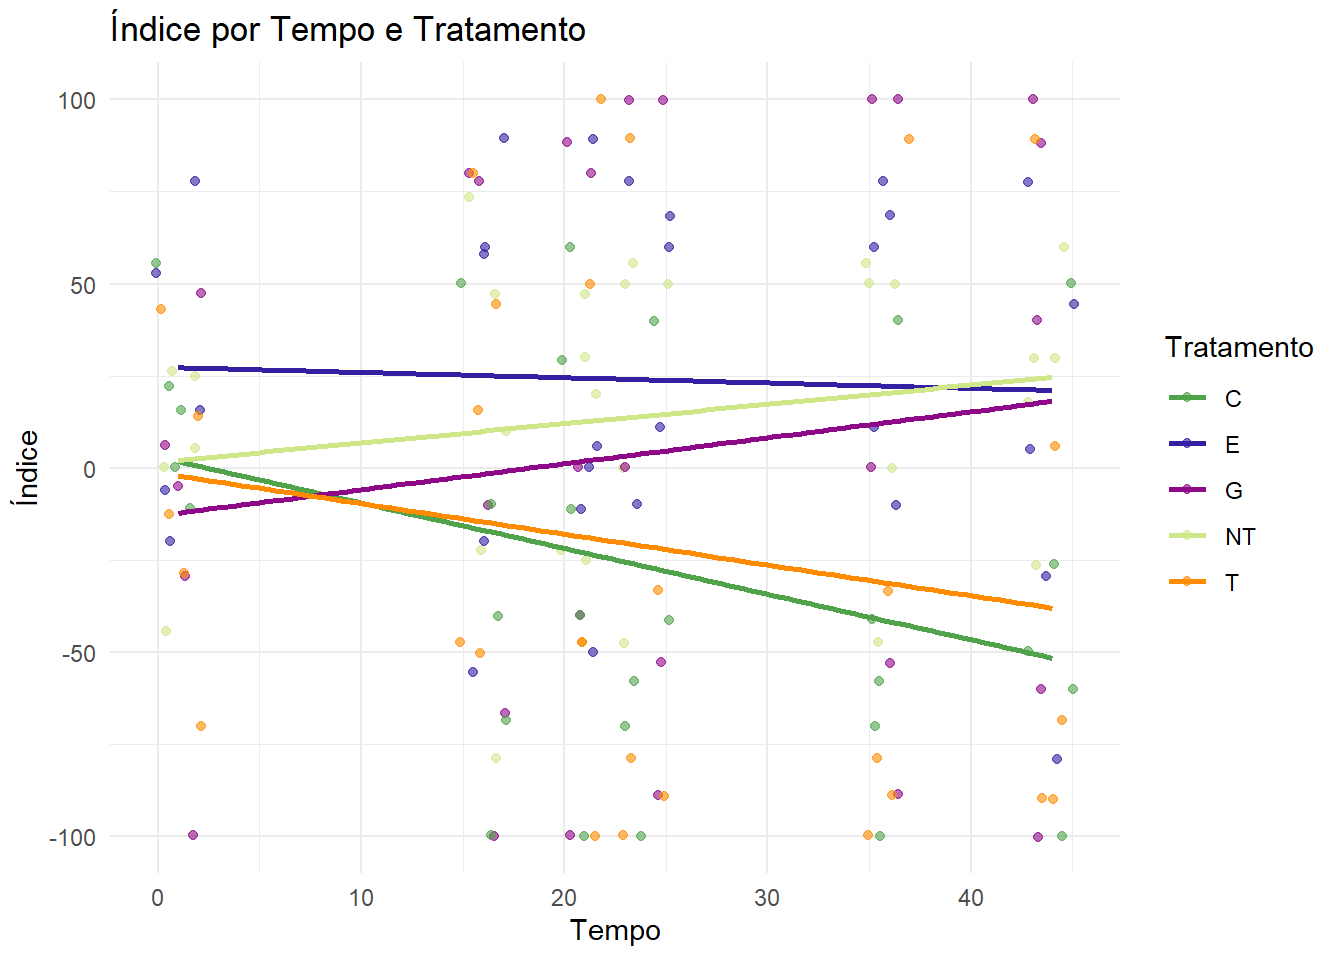
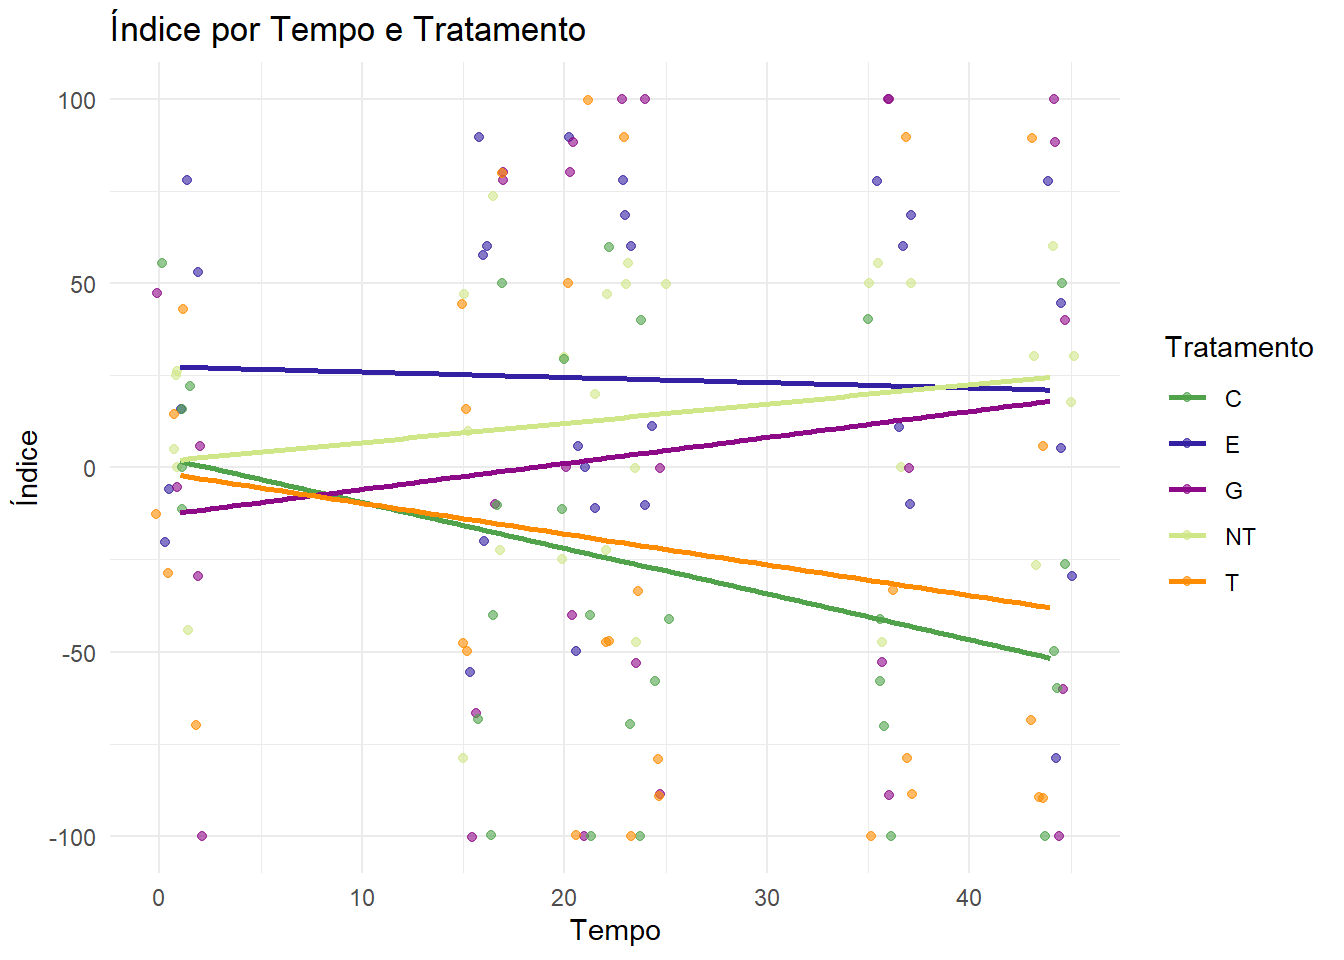
teste

diff --git a/a.github.io/site.github.io/_site/repelencia.html b/a.github.io/site.github.io/_site/repelencia.html
@@ -606,7 +606,7 @@ NOTE: If two or more means share the same grouping symbol,
 <pre><code>`geom_smooth()` using method = 'loess'</code></pre>
 </div>
 <div class="cell-output cell-output-stderr">
-<pre><code>Warning: Removed 17 rows containing missing values or values outside the scale range
+<pre><code>Warning: Removed 19 rows containing missing values or values outside the scale range
 (`geom_point()`).</code></pre>
 </div>
 <div class="cell-output-display">
